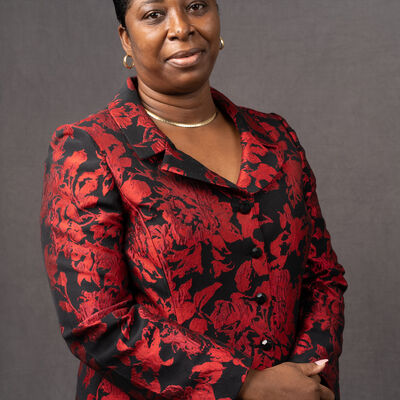
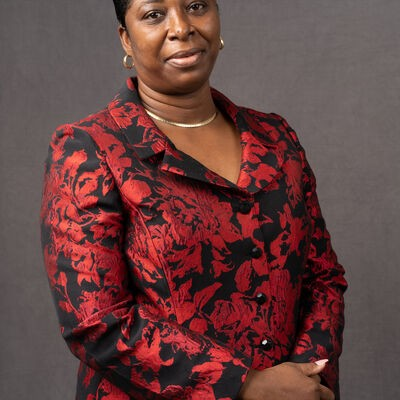
Update headshots, fix about page, update admin email, and add headshot processing script

diff --git a/src/components/hero.tsx b/src/components/hero.tsx
@@ -30,31 +30,71 @@ export function Hero() {
   const [current, setCurrent] = useState(0);
 
   useEffect(() => {
-    // Fetch hero images from Payload CMS
-    fetch("/api/hero-images")
-      .then((res) => res.json())
-      .then((data) => {
-        if (data.images && data.images.length > 0) {
-          setImages(data.images);
-        } else {
-          // Fallback to default image if no images in CMS
-          setImages([
-            {
-              id: 0,
-              title: "Building a Stronger Grenada Together",
-              imageUrl: "/carenage.jpg",
-              order: 0,
-              active: true,
-              createdAt: Date.now() / 1000,
-              updatedAt: Date.now() / 1000,
-            },
-          ]);
+    // Fetch hero images - try API first, fallback to static JSON
+    const fetchHeroImages = async () => {
+      try {
+        // Try API route first
+        const res = await fetch("/api/hero-images");
+        if (res.ok) {
+          const data = await res.json();
+          if (data.images && data.images.length > 0) {
+            setImages(data.images);
+            return;
+          }
         }
+      } catch (error) {
+        console.log('API not available, using static data');
+      }
+
+      // Fallback to static JSON file
+      try {
+        const staticRes = await fetch("/data/hero-images.json");
+        if (staticRes.ok) {
+          const staticData = await staticRes.json();
+          if (staticData.images && staticData.images.length > 0) {
+            setImages(staticData.images);
+            return;
+          }
+        }
+      } catch (error) {
+        console.log('Static data not available');
+      }
+
+      // Final fallback to default image
+      setImages([
+        {
+          id: 0,
+          title: "Building a Stronger Grenada Together",
+          imageUrl: "/carenage.jpg",
+          order: 0,
+          active: true,
+          createdAt: Date.now() / 1000,
+          updatedAt: Date.now() / 1000,
+        },
+      ]);
+    };
+
+    fetchHeroImages();
+        
+        // Preload all images to prevent gray box delay
+        imageList.forEach((image) => {
+          if (image.imageUrl) {
+            const link = document.createElement("link");
+            link.rel = "preload";
+            link.as = "image";
+            link.href = image.imageUrl;
+            document.head.appendChild(link);
+            
+            // Also preload using Image constructor for better browser support
+            const img = new window.Image();
+            img.src = image.imageUrl;
+          }
+        });
       })
       .catch((error) => {
         console.error("Error fetching hero images:", error);
         // Fallback to default image on error
-        setImages([
+        const fallbackImages = [
           {
             id: 0,
             title: "Building a Stronger Grenada Together",
@@ -64,7 +104,17 @@ export function Hero() {
             createdAt: Date.now() / 1000,
             updatedAt: Date.now() / 1000,
           },
-        ]);
+        ];
+        setImages(fallbackImages);
+        
+        // Preload fallback image
+        if (fallbackImages[0].imageUrl) {
+          const link = document.createElement("link");
+          link.rel = "preload";
+          link.as = "image";
+          link.href = fallbackImages[0].imageUrl;
+          document.head.appendChild(link);
+        }
       });
   }, []);
 
@@ -90,9 +140,9 @@ export function Hero() {
   const currentImage = images[current] || images[0];
 
   return (
-    <div className="relative h-[50vh] w-full overflow-hidden">
+    <div className="relative h-[50vh] w-full overflow-hidden z-0">
       {/* Background Image Carousel */}
-      <div className="absolute inset-0 w-full h-full overflow-hidden">
+      <div className="absolute inset-0 w-full h-full overflow-hidden z-0">
         <Carousel
           setApi={setApi}
           plugins={images.length > 1 ? [autoplayPlugin] : []}
@@ -112,8 +162,10 @@ export function Hero() {
                       alt={image.title}
                       fill
                       className="object-cover"
-                      priority={index === 0}
+                      priority={index === 0 || index === 1}
                       sizes="100vw"
+                      quality={90}
+                      loading={index <= 1 ? "eager" : "lazy"}
                     />
                   ) : (
                     <div className="absolute inset-0 bg-gradient-to-r from-green-600 to-green-800" />

diff --git a/scripts/process-headshots.ts b/scripts/process-headshots.ts
@@ -1,0 +1,82 @@
+import sharp from 'sharp';
+import fs from 'fs';
+import path from 'path';
+
+const headshotsDir = path.join(process.cwd(), 'public', 'headshots');
+const outputDir = path.join(process.cwd(), 'public', 'headshots');
+
+// Ensure output directory exists
+if (!fs.existsSync(outputDir)) {
+  fs.mkdirSync(outputDir, { recursive: true });
+}
+
+async function processHeadshot(inputPath: string, outputPath: string) {
+  try {
+    const image = sharp(inputPath);
+    const metadata = await image.metadata();
+    
+    if (!metadata.width || !metadata.height) {
+      console.error(`Could not read metadata for ${inputPath}`);
+      return;
+    }
+
+    // For headshots, create a square focusing on the upper-center where faces are
+    // Use the width as the base size to ensure we get the full width
+    const size = Math.min(metadata.width, metadata.height);
+    
+    // Center horizontally, start from top to include head area
+    const left = Math.floor((metadata.width - size) / 2);
+    const top = 0; // Start from top to ensure head isn't cut off
+    
+    // Create a temporary file path
+    const tempPath = outputPath + '.tmp';
+    
+    // Process the image:
+    // 1. Extract a square from upper-center (ensuring head/face area is included)
+    // 2. Resize to 400x400 for consistent size
+    // 3. Use 'top' gravity to preserve head area during resize
+    await image
+      .extract({
+        left: left,
+        top: top,
+        width: size,
+        height: size
+      })
+      .resize(400, 400, {
+        fit: 'cover',
+        position: 'top' // Focus on top area to preserve head
+      })
+      .jpeg({ quality: 90 })
+      .toFile(tempPath);
+    
+    // Replace original with processed version
+    fs.renameSync(tempPath, outputPath);
+    
+    console.log(`✓ Processed ${path.basename(inputPath)}`);
+  } catch (error) {
+    console.error(`Error processing ${inputPath}:`, error);
+  }
+}
+
+async function processAllHeadshots() {
+  const files = fs.readdirSync(headshotsDir);
+  const imageFiles = files.filter(file => 
+    /\.(jpg|jpeg|png)$/i.test(file)
+  );
+
+  console.log(`Found ${imageFiles.length} headshot images to process...\n`);
+
+  for (const file of imageFiles) {
+    const inputPath = path.join(headshotsDir, file);
+    const ext = path.extname(file);
+    const baseName = path.basename(file, ext);
+    const outputPath = path.join(outputDir, `${baseName}${ext}`);
+    
+    await processHeadshot(inputPath, outputPath);
+  }
+
+  console.log(`\n✓ Finished processing ${imageFiles.length} headshots`);
+}
+
+processAllHeadshots().catch(console.error);
+

diff --git a/src/app/about/page.tsx b/src/app/about/page.tsx
@@ -69,6 +69,13 @@ export default function AboutPage() {
   const policies = getSection('policies')
   const commitment = getSection('commitment')
 
+  // Sort executives: those with images first
+  const sortedExecutives = [...executives].sort((a, b) => {
+    if (a.image && !b.image) return -1
+    if (!a.image && b.image) return 1
+    return 0
+  })
+
   return (
     <div>
       {/* Hero Section */}
@@ -101,19 +108,20 @@ export default function AboutPage() {
       <section className="mb-12 py-6">
         <h3 className="text-lg font-semibold mb-6">NNP Executive Team</h3>
         <div className="grid md:grid-cols-2 lg:grid-cols-3 gap-6">
-          {executives.map((exec, idx) => (
+          {sortedExecutives.map((exec, idx) => (
             <div key={idx} className="bg-white p-4 flex items-center space-x-4">
-              {exec.image ? (
-                <Image
-                  src={exec.image}
-                  alt={exec.name}
-                  width={80}
-                  height={80}
-                  className="rounded-full object-cover"
-                />
-              ) : (
-                <div className="w-20 h-20 rounded-full bg-gray-200 flex items-center justify-center text-gray-500 text-xs">
-                  No Photo
+              {exec.image && (
+                <div className="w-24 h-24 rounded-full overflow-hidden flex-shrink-0 relative">
+                  <Image
+                    src={exec.image}
+                    alt={exec.name}
+                    width={96}
+                    height={96}
+                    className="object-cover w-full h-full"
+                    style={{ 
+                      objectPosition: '50% 30%'
+                    }}
+                  />
                 </div>
               )}
               <div>
@@ -147,6 +155,7 @@ export default function AboutPage() {
           ))}
         </section>
       )}
+      </div>
     </div>
   )
 }

diff --git a/src/lib/db/seed.ts b/src/lib/db/seed.ts
@@ -9,7 +9,7 @@ async function seed() {
 
   // Check if admin user exists
   const existingAdmin = await db.query.users.findFirst({
-    where: eq(users.email, 'admin@votenpp.com'),
+    where: eq(users.email, 'admin@votennp.com'),
   })
 
   if (!existingAdmin) {
@@ -19,7 +19,7 @@ async function seed() {
     // Create user
     await db.insert(users).values({
       id: userId,
-      email: 'admin@votenpp.com',
+      email: 'admin@votennp.com',
       name: 'Admin User',
       emailVerified: true,
       createdAt: new Date(),
@@ -30,12 +30,12 @@ async function seed() {
     await db.insert(accounts).values({
       id: nanoid(),
       userId: userId,
-      accountId: 'admin@votenpp.com',
+      accountId: 'admin@votennp.com',
       providerId: 'credential',
       password: hashedPassword,
     })
 
-    console.log('✓ Admin user created (email: admin@votenpp.com, password: admin123)')
+    console.log('✓ Admin user created (email: admin@votennp.com, password: admin123)')
   } else {
     console.log('✓ Admin user already exists')
   }

diff --git a/src/components/header.tsx b/src/components/header.tsx
@@ -4,11 +4,11 @@ import { CustomImage } from "@/components/ui/image";
 
 export function Header() {
    return (
-      <header className="border-b">
+      <header className="border-b relative z-50">
          <nav className="container relative mx-auto px-4 py-4 flex items-center justify-between">
             <Link
                href="/"
-               className="text-2xl font-bold absolute z-20 border -mb-6 mt-6 md:mt-12 bg-white p-1 rounded-full w-[100px] h-[100px] md:w-[120px] md:h-[120px]">
+               className="text-2xl font-bold absolute z-[60] border -mb-6 mt-6 md:mt-12 bg-white p-1 rounded-full w-[100px] h-[100px] md:w-[120px] md:h-[120px]">
                <CustomImage
                   src={`/nnplogo.png`}
                   alt="Logo"
